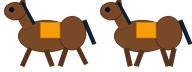
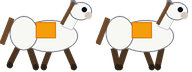
fix(game): white horse facing forward + bright sky and green trees
- Horse sprite: recolor to a white horse with dark, clearly visible legs and
  hooves, and mirror it to face right (direction of travel) so it no longer
  looks like it's running backward
- Background: bright blue sky gradient with a sun, green rolling hills, and
  parallax trees; lighter dirt track

diff --git a/common/src/game/game.js b/common/src/game/game.js
@@ -217,39 +217,70 @@ export class Game {
   }
 
   drawBackground(ctx) {
-    // sky
+    // bright blue sky
     const sky = ctx.createLinearGradient(0, 0, 0, GROUND_Y);
-    sky.addColorStop(0, '#0b1830');
-    sky.addColorStop(1, '#1b3a5b');
+    sky.addColorStop(0, '#4aa8ec');
+    sky.addColorStop(1, '#c7ebff');
     ctx.fillStyle = sky;
     ctx.fillRect(0, 0, VIEW_W, GROUND_Y);
 
-    // rolling hills (slow parallax)
-    ctx.fillStyle = '#173b3a';
-    const hillOff = (this.worldX * 0.2) % 400;
-    for (let x = -hillOff; x < VIEW_W; x += 400) {
+    // sun
+    ctx.fillStyle = 'rgba(255, 244, 190, 0.95)';
+    ctx.beginPath();
+    ctx.arc(VIEW_W - 90, 72, 34, 0, Math.PI * 2);
+    ctx.fill();
+
+    // rolling green hills (slow parallax)
+    ctx.fillStyle = '#77c256';
+    const hillOff = (this.worldX * 0.15) % 400;
+    for (let x = -hillOff; x < VIEW_W + 400; x += 400) {
       ctx.beginPath();
-      ctx.arc(x + 120, GROUND_Y, 160, Math.PI, 0);
-      ctx.arc(x + 320, GROUND_Y, 120, Math.PI, 0);
+      ctx.arc(x + 120, GROUND_Y, 150, Math.PI, 0);
+      ctx.arc(x + 320, GROUND_Y, 110, Math.PI, 0);
       ctx.fill();
     }
 
-    // ground
-    ctx.fillStyle = '#3b2c17';
+    // trees (faster parallax than hills)
+    const treeOff = (this.worldX * 0.35) % 260;
+    for (let x = -treeOff; x < VIEW_W + 260; x += 260) {
+      this.drawTree(ctx, x + 60, GROUND_Y);
+      this.drawTree(ctx, x + 180, GROUND_Y - 4);
+    }
+
+    // dirt track
+    ctx.fillStyle = '#a06a3c';
     ctx.fillRect(0, GROUND_Y, VIEW_W, VIEW_H - GROUND_Y);
-    ctx.fillStyle = '#4a6b3a'; // grass strip along the top of the track
-    ctx.fillRect(0, GROUND_Y, VIEW_W, 8);
+    // grass fringe along the top of the track
+    ctx.fillStyle = '#5fb141';
+    ctx.fillRect(0, GROUND_Y, VIEW_W, 10);
 
     // white rail line just above the ground, scrolling with the world
-    ctx.strokeStyle = 'rgba(245,245,245,0.5)';
+    ctx.strokeStyle = 'rgba(255,255,255,0.75)';
     ctx.lineWidth = 3;
     const dash = (this.worldX % 60);
     ctx.beginPath();
     for (let x = -dash; x < VIEW_W; x += 60) {
-      ctx.moveTo(x, GROUND_Y + 22);
-      ctx.lineTo(x + 34, GROUND_Y + 22);
+      ctx.moveTo(x, GROUND_Y + 24);
+      ctx.lineTo(x + 34, GROUND_Y + 24);
     }
     ctx.stroke();
+  }
+
+  drawTree(ctx, x, baseY) {
+    // trunk (base is hidden behind the track, drawn next)
+    ctx.fillStyle = '#7a4a26';
+    ctx.fillRect(x - 6, baseY - 44, 12, 46);
+    // leafy canopy
+    ctx.fillStyle = '#3f9e3a';
+    ctx.beginPath();
+    ctx.arc(x, baseY - 58, 26, 0, Math.PI * 2);
+    ctx.arc(x - 20, baseY - 46, 19, 0, Math.PI * 2);
+    ctx.arc(x + 20, baseY - 46, 19, 0, Math.PI * 2);
+    ctx.fill();
+    ctx.fillStyle = '#5bc24d';
+    ctx.beginPath();
+    ctx.arc(x - 7, baseY - 66, 15, 0, Math.PI * 2);
+    ctx.fill();
   }
 
   drawPlayer(ctx) {

diff --git a/tools/generate_game_sprites.py b/tools/generate_game_sprites.py
@@ -32,6 +32,13 @@ GREEN = (86, 158, 74, 255)
 BLUE = (43, 91, 158, 255)
 CLEAR = (0, 0, 0, 0)
 
+# white horse (dark legs for contrast against a bright sky)
+HORSE_BODY = (247, 247, 244, 255)
+HORSE_OUTLINE = (120, 126, 138, 255)
+HORSE_LEG = (74, 52, 34, 255)
+HORSE_HOOF = (40, 30, 20, 255)
+HORSE_MANE = (110, 74, 44, 255)
+
 SS = 3  # supersample factor for anti-aliasing
 
 OUT_DIR = os.path.join(
@@ -58,46 +65,53 @@ def s(v):
 
 
 def draw_horse_frame(d, ox, legs_forward):
-    """Draw one gallop frame with top-left origin ox (in supersampled px)."""
-    # body
-    d.ellipse([ox + s(18), s(20), ox + s(74), s(52)], fill=BROWN, outline=BROWN_DARK, width=SS)
-    # hindquarters
-    d.ellipse([ox + s(58), s(16), ox + s(86), s(50)], fill=BROWN, outline=BROWN_DARK, width=SS)
+    """Draw one gallop frame. Drawn facing LEFT here; gen_horse mirrors each
+    frame so the final sprite faces RIGHT (the direction of travel). Origin ox
+    in supersampled px."""
+    # legs first (behind the body), with hooves, in a dark tone for contrast
+    lw = s(6)
+
+    def leg(x1, y1, x2, y2):
+        d.line([(ox + s(x1), s(y1)), (ox + s(x2), s(y2))], fill=HORSE_LEG, width=lw)
+        d.ellipse([ox + s(x2 - 3), s(y2 - 2), ox + s(x2 + 3), s(y2 + 4)], fill=HORSE_HOOF)
+
+    if legs_forward:
+        leg(30, 48, 22, 66); leg(46, 50, 52, 66); leg(66, 48, 60, 66); leg(78, 48, 86, 64)
+    else:
+        leg(30, 48, 34, 66); leg(46, 50, 40, 66); leg(66, 48, 72, 66); leg(78, 48, 74, 66)
+
+    # body + hindquarters
+    d.ellipse([ox + s(18), s(20), ox + s(74), s(52)], fill=HORSE_BODY, outline=HORSE_OUTLINE, width=SS)
+    d.ellipse([ox + s(58), s(16), ox + s(86), s(50)], fill=HORSE_BODY, outline=HORSE_OUTLINE, width=SS)
     # neck + head
     d.polygon([
         (ox + s(24), s(30)), (ox + s(10), s(6)),
         (ox + s(24), s(4)), (ox + s(34), s(26)),
-    ], fill=BROWN, outline=BROWN_DARK)
-    d.ellipse([ox + s(4), s(2), ox + s(26), s(20)], fill=BROWN, outline=BROWN_DARK, width=SS)
-    # ear + eye
-    d.polygon([(ox + s(18), s(4)), (ox + s(24), s(-4)), (ox + s(26), s(6))], fill=BROWN_DARK)
+    ], fill=HORSE_BODY, outline=HORSE_OUTLINE)
+    d.ellipse([ox + s(4), s(2), ox + s(26), s(20)], fill=HORSE_BODY, outline=HORSE_OUTLINE, width=SS)
+    # ear + eye + muzzle
+    d.polygon([(ox + s(18), s(4)), (ox + s(24), s(-4)), (ox + s(26), s(6))], fill=HORSE_OUTLINE)
     d.ellipse([ox + s(9), s(7), ox + s(14), s(12)], fill=NAVY)
+    d.ellipse([ox + s(4), s(12), ox + s(11), s(19)], fill=(210, 200, 190, 255))
     # mane + tail
-    d.line([(ox + s(22), s(2)), (ox + s(34), s(24))], fill=NAVY_SOFT, width=s(3))
-    d.line([(ox + s(84), s(20)), (ox + s(94), s(44))], fill=NAVY_SOFT, width=s(4))
+    d.line([(ox + s(22), s(2)), (ox + s(34), s(24))], fill=HORSE_MANE, width=s(4))
+    d.line([(ox + s(84), s(18)), (ox + s(94), s(44))], fill=HORSE_MANE, width=s(5))
     # gold saddle cloth
     d.rectangle([ox + s(40), s(22), ox + s(60), s(38)], fill=GOLD, outline=GOLD_DARK, width=SS)
-    # legs (two poses for the gallop cycle)
-    lw = s(5)
-    if legs_forward:
-        d.line([(ox + s(30), s(48)), (ox + s(22), s(66))], fill=BROWN_DARK, width=lw)
-        d.line([(ox + s(46), s(50)), (ox + s(52), s(66))], fill=BROWN_DARK, width=lw)
-        d.line([(ox + s(66), s(48)), (ox + s(60), s(66))], fill=BROWN_DARK, width=lw)
-        d.line([(ox + s(78), s(48)), (ox + s(86), s(64))], fill=BROWN_DARK, width=lw)
-    else:
-        d.line([(ox + s(30), s(48)), (ox + s(34), s(66))], fill=BROWN_DARK, width=lw)
-        d.line([(ox + s(46), s(50)), (ox + s(40), s(66))], fill=BROWN_DARK, width=lw)
-        d.line([(ox + s(66), s(48)), (ox + s(72), s(66))], fill=BROWN_DARK, width=lw)
-        d.line([(ox + s(78), s(48)), (ox + s(74), s(66))], fill=BROWN_DARK, width=lw)
 
 
 def gen_horse():
-    # two-frame horizontal strip, each frame 96x72
+    # two-frame horizontal strip, each frame 96x72, mirrored to face right
     fw, fh, frames = 96, 72, 2
-    img, d = new_canvas(fw * frames, fh)
-    draw_horse_frame(d, 0, True)
-    draw_horse_frame(d, s(fw), False)
-    finish(img, fw * frames, fh, "horse.png")
+    strip = Image.new("RGBA", (fw * frames * SS, fh * SS), CLEAR)
+    for i, legs in enumerate((True, False)):
+        frame = Image.new("RGBA", (fw * SS, fh * SS), CLEAR)
+        draw_horse_frame(ImageDraw.Draw(frame), 0, legs)
+        frame = frame.transpose(Image.FLIP_LEFT_RIGHT)  # face right
+        strip.paste(frame, (i * fw * SS, 0))
+    out = strip.resize((fw * frames, fh), Image.LANCZOS)
+    out.save(os.path.join(OUT_DIR, "horse.png"))
+    print(f"  wrote horse.png ({fw * frames}x{fh})")
 
 
 def gen_fence():